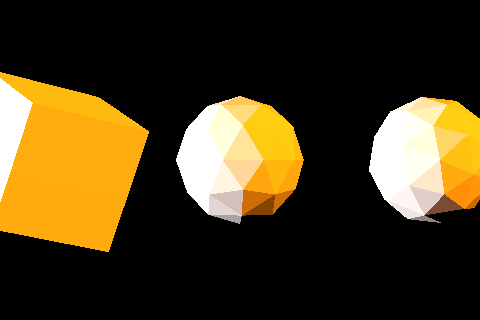
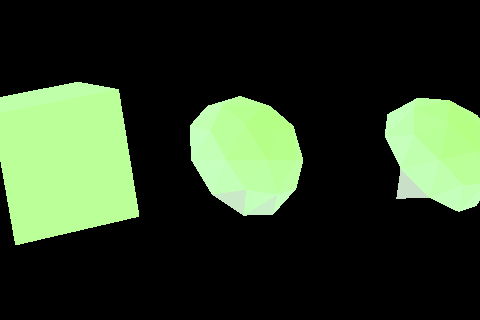
added a desaturation variable to allow the sRGB colorspace to represent values it doesn't actually cover. The pain in my heart. Constrained by 90s technology we are.

Changed region(s): [[0.0, 0.2188, 0.3125, 0.7812], [0.3438, 0.2812, 0.6562, 0.7188], [0.75, 0.2812, 1.0, 0.7188]]

diff --git a/src/colorspace_conversion.rs b/src/colorspace_conversion.rs
@@ -14,7 +14,7 @@ pub fn draw_colors_in_xyz(canvas: &mut RgbImage) {
             let x: f32 = (i as f32) / (canvas.width() as f32);
             let y: f32 = (canvas.height() - j - 1) as f32 / canvas.height() as f32;
 
-            canvas.put_pixel(i, j,  sRGB_to_display(xyY_to_sRGB(vector(x,y,0.))));
+            canvas.put_pixel(i, j, sRGB_to_display(xyY_to_sRGB(vector(x, y, 0.))));
         }
     }
 
@@ -44,7 +44,7 @@ pub fn coloring_book(canvas: &mut RgbImage) {
             let x: f32 = (i as f32) / (canvas.width() as f32);
             let y: f32 = (canvas.height() - j - 1) as f32 / canvas.height() as f32;
 
-            canvas.put_pixel(i, j, sRGB_to_display(xyY_to_sRGB(vector(x, y,1.))));
+            canvas.put_pixel(i, j, sRGB_to_display(xyY_to_sRGB(vector(x, y, 1.))));
         }
     }
     for λ in 380..780 {
@@ -63,16 +63,16 @@ pub fn coloring_book(canvas: &mut RgbImage) {
     let div = 2;
     for i in 1..(div) {
         for j in 0..canvas.height() {
-            canvas.put_pixel(canvas.width()/div*i, j, Rgb([255, 255, 255]));
-            canvas.put_pixel(j, canvas.height()/div*i, Rgb([255, 255, 255]));
+            canvas.put_pixel(canvas.width() / div * i, j, Rgb([255, 255, 255]));
+            canvas.put_pixel(j, canvas.height() / div * i, Rgb([255, 255, 255]));
         }
     }
 
     let div = 3;
     for i in 1..(div) {
         for j in 0..canvas.height() {
-            canvas.put_pixel(canvas.width()/div*i, j, Rgb([255, 255, 255]));
-            canvas.put_pixel(j, canvas.height()/div*i, Rgb([255, 255, 255]));
+            canvas.put_pixel(canvas.width() / div * i, j, Rgb([255, 255, 255]));
+            canvas.put_pixel(j, canvas.height() / div * i, Rgb([255, 255, 255]));
         }
     }
 
@@ -133,15 +133,14 @@ pub fn CIEXYZ_to_xyY(XYZ: Vector) -> Vector {
     let X = XYZ.x;
     let Y = XYZ.y;
     let Z = XYZ.z;
-    let x = X / (X+Y+Z);
-    let y = Y / (X+Y+Z);
+    let x = X / (X + Y + Z);
+    let y = Y / (X + Y + Z);
     return vector(x, y, Y);
 }
 
 /// I think? it might supposed to be CIEXYZ?
 /// NOTE: this is not u8 encoded! it's possibly negative!
 pub fn xyY_to_sRGB(xyY: Vector) -> Vector {
-
     // yeah, yeah, bad vector implementation I know
     let x: f32 = xyY.x;
     let y: f32 = xyY.y;
@@ -157,20 +156,29 @@ pub fn xyY_to_sRGB(xyY: Vector) -> Vector {
     sG_linear *= Y;
     sB_linear *= Y;
 
+    // NOTE: THIS DEVIATES FROM AN ACCURATE COLOR MODEL
+    // I think this will desaturate?
+    let factor = 2.5;
+    let sR_linear = (sR_linear + (factor - 1.)) / factor;
+    let sG_linear = (sG_linear + (factor - 1.)) / factor;
+    let sB_linear = (sB_linear + (factor - 1.)) / factor;
+
     let sR = sRGB_apply_gamma(sR_linear);
     let sG = sRGB_apply_gamma(sG_linear);
     let sB = sRGB_apply_gamma(sB_linear);
-    vector(sR,sG,sB)
+    vector(sR, sG, sB)
 }
 
-
-
 /// constrains sRGB to only positive, displayable values
-pub fn sRGB_to_display(sRGB: Vector) -> Rgb<u8>{
+pub fn sRGB_to_display(sRGB: Vector) -> Rgb<u8> {
     let sR = sRGB.x;
     let sG = sRGB.y;
     let sB = sRGB.z;
-    
+
+
+
+
+
     if sR < 0. || sG < 0. || sB < 0. {
         // if sR > 1. || sG > 1. || sB > 1. || sR < 0. || sG < 0. || sB < 0. {
 
@@ -190,13 +198,6 @@ pub fn sRGB_to_display(sRGB: Vector) -> Rgb<u8>{
     return Rgb([sR, sG, sB]);
 }
 
-
-
-
-
-
-
-
 pub fn sRGB_apply_gamma(V: f32) -> f32 {
     if V <= 0.0031308 {
         return V * 12.92;
@@ -207,4 +208,3 @@ pub fn sRGB_apply_gamma(V: f32) -> f32 {
 pub fn pixel_ready(x: f32) -> u8 {
     (255. * x) as u8
 }
-

diff --git a/src/scene.rs b/src/scene.rs
@@ -3,7 +3,7 @@ use crate::orientation::RIGHT;
 // use crate::coordinate_space::Polar;
 use crate::primitives::{vector, vertex, Mesh};
 // use crate::primitives::Object;
-use crate::lighting::{black_body, black_spectra, const_spectra, norm_black_body, point_light, PointLight, Spectra};
+use crate::lighting::{black_body, black_spectra, const_spectra, monochroma_spectra, norm_black_body, point_light, PointLight, Spectra};
 use crate::load_object_file::load_obj;
 use image::Rgb;
 
@@ -53,11 +53,13 @@ pub fn simple_scene() -> Scene {
         far_clipping_plane: 1e6,
         exposure_time: 1.,
     };
-    let light = point_light(vertex(-100.0, 0.0, 0.0), RIGHT, norm_black_body(6000.));
+    // let light = point_light(vertex(-100.0, 0.0, 0.0), RIGHT, norm_black_body(6000.));
+    // let light = point_light(vertex(-100.0, 0.0, 0.0), RIGHT, 1000*const_spectra(380.));
+    let lightb = point_light(vertex(100.0, 100.0, 100.0), RIGHT, monochroma_spectra(550.,5e-1));
 
-    let lightb = point_light(vertex(100.0, 100.0, 100.0), RIGHT, norm_black_body(2000.));
+    // let lightb = point_light(vertex(100.0, 100.0, 100.0), RIGHT, norm_black_body(2000.));
     // println!("{:?}",light.radiant_flux.from_λ(700.));
-    let lights = vec![light,lightb];
+    let lights = vec![lightb];
     let mut meshes = Vec::new();
     // let mesh = unit_cube(vector(0.0, 0.0, -5.0));
     // let mesh = sample_mesh(vector(0.0, 0.0, -3.0));
